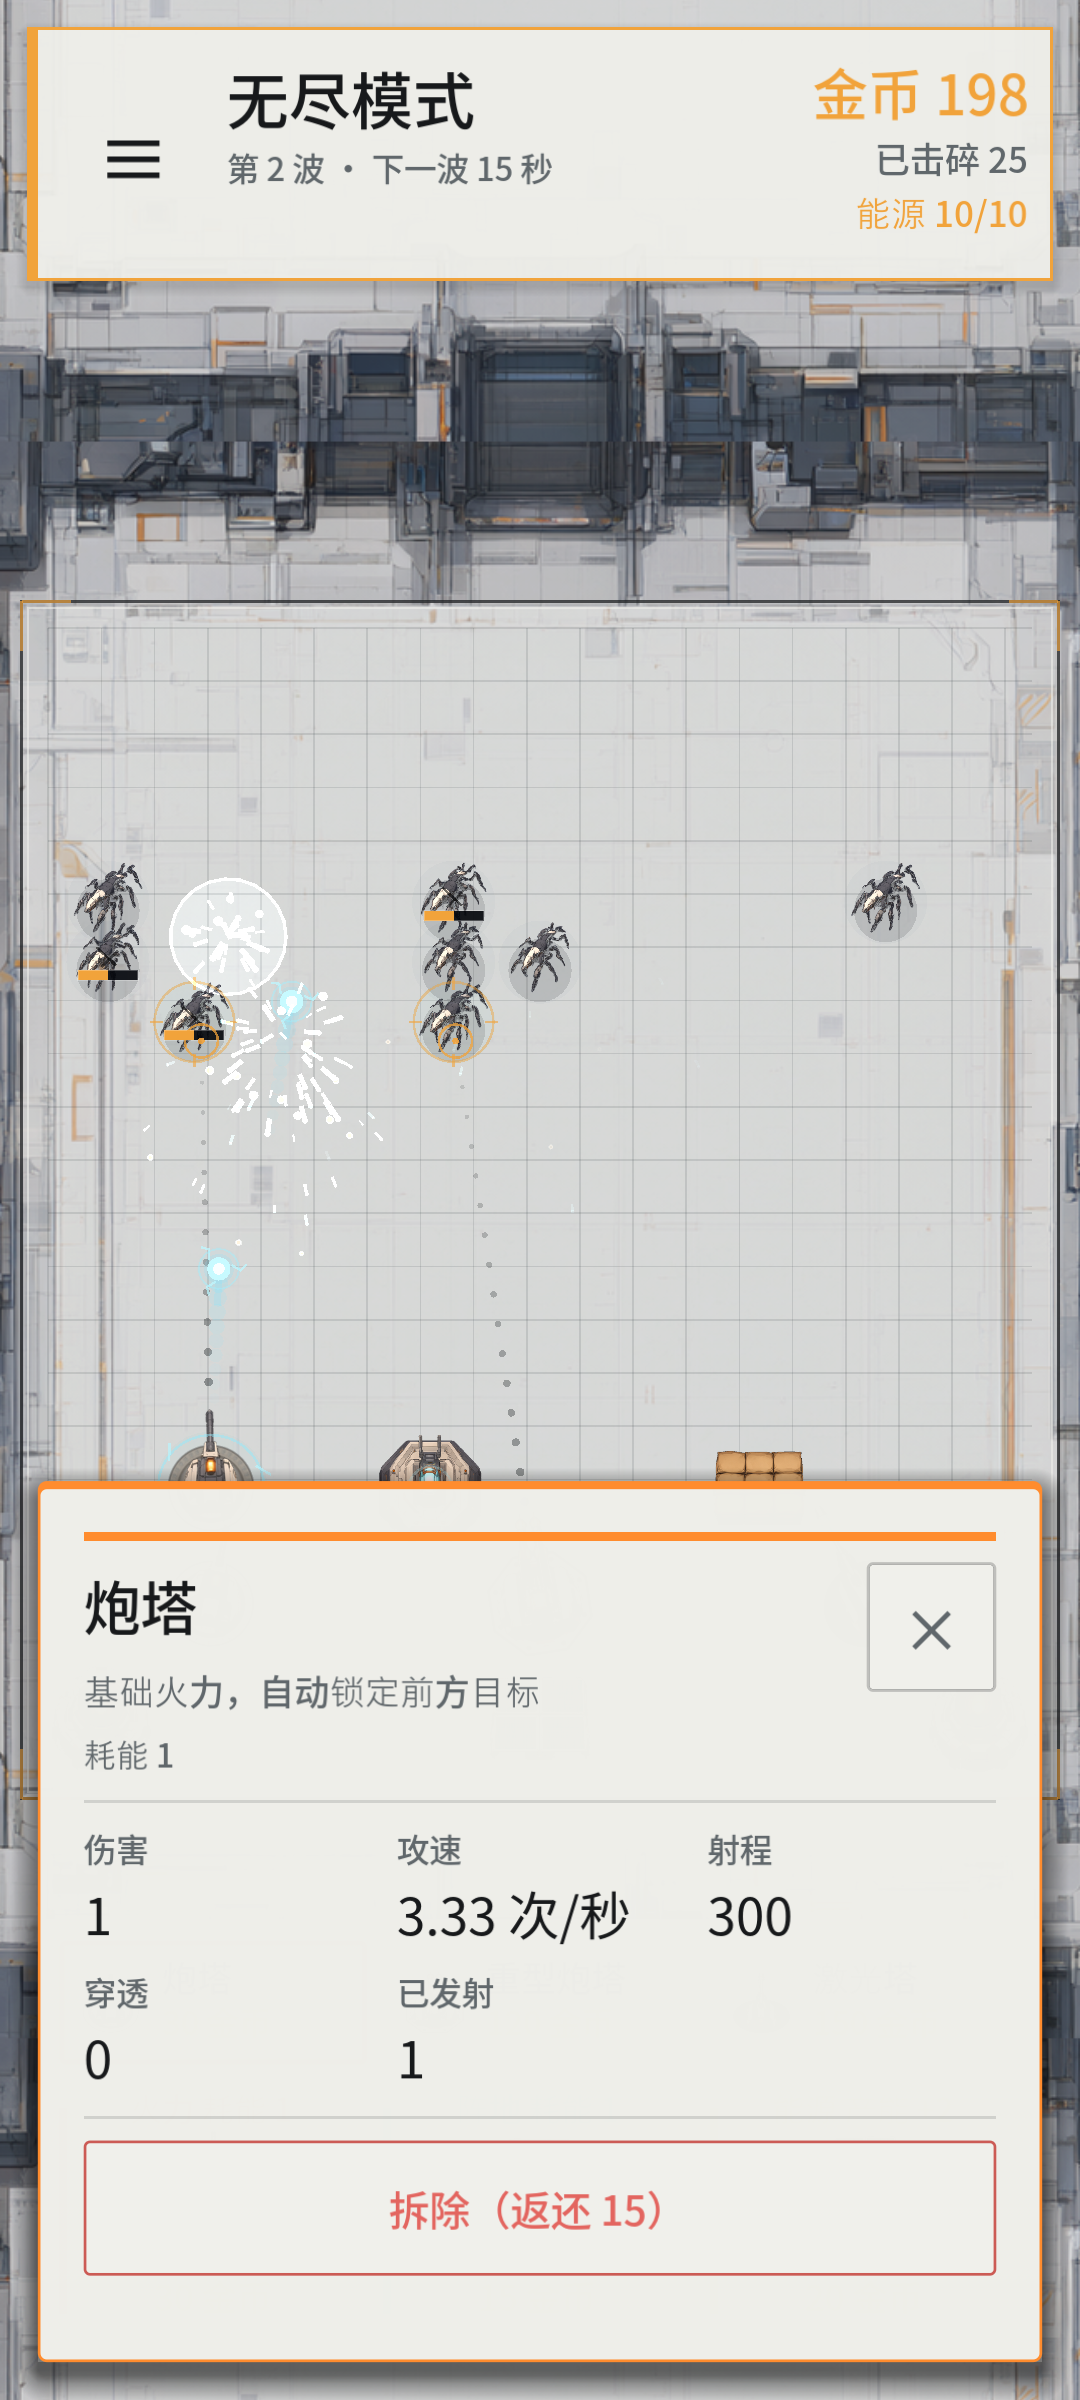
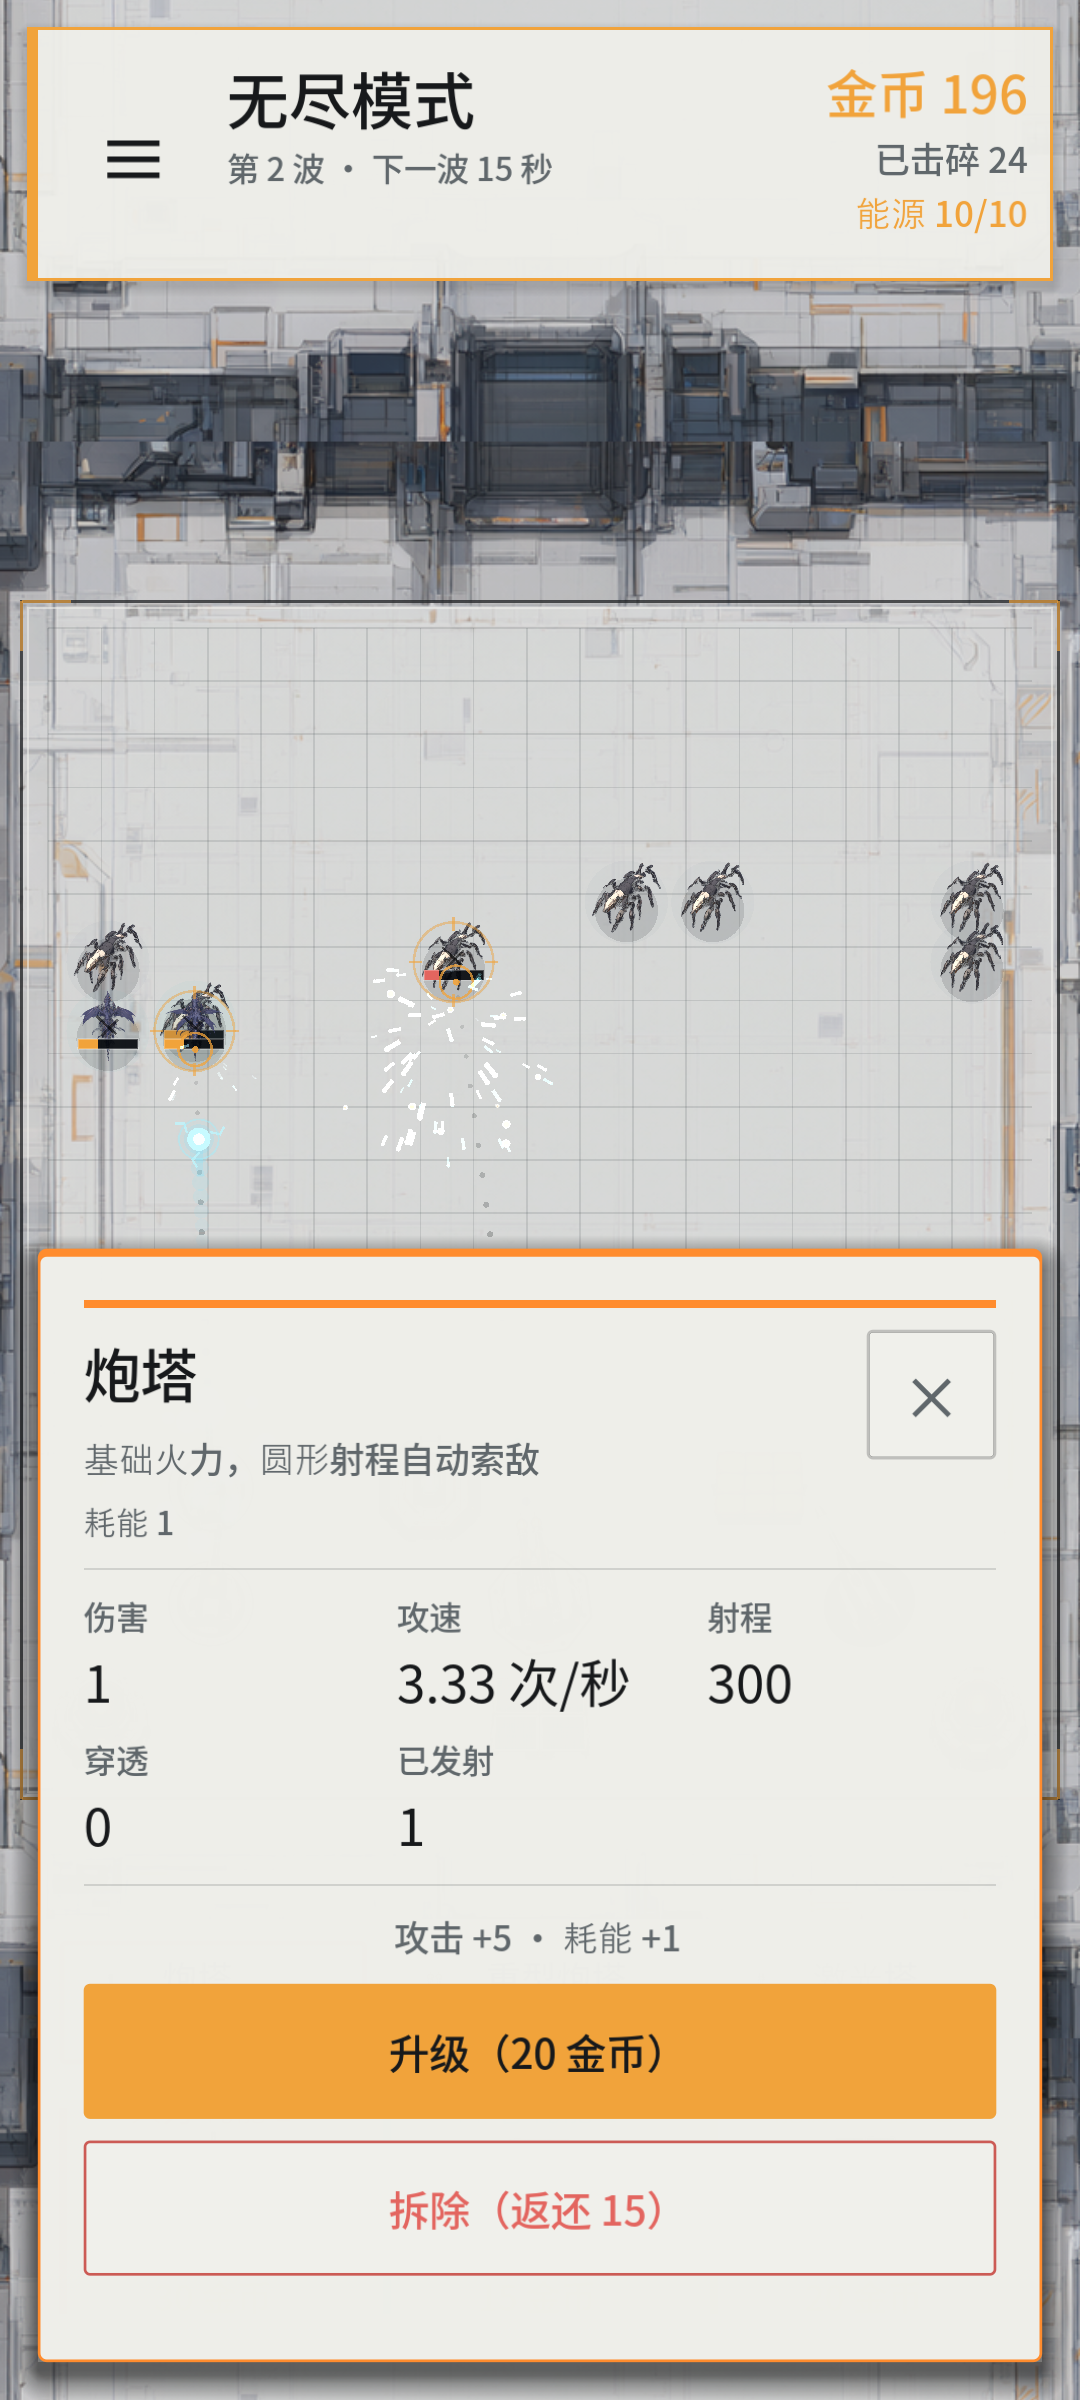
feat: 建筑部署后按等级升级
- 增加升级曲线：炮塔攻击 +5、重型炮塔 +30、激光攻击与耗能翻倍，激光上限更高

- 聚焦面板恢复单个升级按钮，显示升级效果与费用，满级禁用

- 升级计入投入并刷新供电，补充冒烟测试与 README

diff --git a/README.md b/README.md
@@ -4,7 +4,7 @@
 
 开局有 5 秒准备时间和 50 金币：方块不会生成，玩家先把太阳能电板和炮塔放到网格上。倒计时结束后战斗开始，炮塔自动锁定并射出弹珠，摧毁眼前的目标。
 
-金币来自击碎方块。商店按三类切换道具列表，所有形态都直接建造，没有升级路线：
+金币来自击碎方块。商店按三类切换道具列表，所有形态都直接建造；部署后还可以在聚焦面板里按等级升级，低/中/高级建筑用不同成长曲线：
 
 - **火力**：炮塔、重型炮塔、激光塔。拖到格子后直接放置，射程用绿色格子显示。
 - **阵地**：沙袋、压缩塔。沙袋负责拦截；压缩塔有施法朝向，需要二次确认，施法范围用绿色格子显示。
@@ -16,7 +16,7 @@
 
 初始 50 金币刚好是太阳能电板（20）+ 炮塔（30）。如果先放炮塔，炮塔图标会因缺电置灰，放下太阳能电板后立刻恢复；之后新增建筑如果超出产能，只有新建筑置灰离线，已经运转的建筑不会被拖停。
 
-游戏界面如下图：中间是持续下滚的方块流，底部上方是当前类别的道具列表、下方是火力/阵地/能源三类卡；顶栏右上角一列右对齐显示金币、击碎数和能源供需，左侧显示当前波次和下一波倒计时。炮塔在圆形射程内自动锁定目标并持续开火，玩家负责选道具、拖放、二次确认和规划能源。
+游戏界面如下图：中间是持续下滚的方块流，底部上方是当前类别的道具列表、下方是火力/阵地/能源三类卡；顶栏右上角一列右对齐显示金币、击碎数和能源供需，左侧显示当前波次和下一波倒计时。炮塔在圆形射程内自动锁定目标并持续开火，玩家负责选道具、拖放、给压缩塔确认朝向、升级建筑和规划能源。
 
 ![游戏截图：方块流、三类建筑、道具列表与底部道具栏](image.png)
 
@@ -32,6 +32,7 @@
 - 阵地：沙袋生命 120，敌人接触后停下攻击沙袋，沙袋被摧毁后敌人继续前进；压缩塔 60 金币，生命 180
 - 压缩塔：拖放到格子后需要二次确认，绿色格子会标出施法直线；确认后绿格隐藏，不再画线，被加成的火力塔身上会持续冒青色粒子，多个压缩塔不叠加
 - 能源：太阳能电板产能 2、20 金币；聚能塔产能 4、60 金币。总产能不足时只有排在后段或新布置的建筑离线并置灰
+- 建筑部署后可升级：炮塔每级攻击 +5、耗能 +1；重型炮塔每级攻击 +30、耗能 +2；激光塔每级攻击 ×2、耗能 ×2，上限更高；沙袋/压缩塔加生命，能源建筑加产能
 - 每次发射都会生成一颗独立的球，之前发射的球继续飞行；基础炮弹撞到第一个方块或墙面就消失
 - 每颗球独立计算寿命，撞墙或命中后消失
 - 方块被击中/击碎时会溅出对应颜色的火花和闪光，电击命中使用蓝白火花；击碎时额外爆出金币碎屑
@@ -43,7 +44,7 @@
 - 怪物分为普通、迅捷、装甲、精英四类，分别在第 1/2/3/4 波解锁；迅捷移动更快，装甲与精英拥有更高血量，并有各自的外观标记
 - 普通怪基础血量从 3 开始，每波按 1.28 倍复利增长；血条只在受击后显示 3 秒，重复受击刷新倒计时
 - 点击已放置的建筑打开聚焦面板：火力显示伤害/攻速/射程/穿透/发射数；阵地显示生命、拦截、增益、耗能与状态；能源显示产能、生命、净产能与状态
-- 聚焦面板不再提供升级，只保留属性与拆除；拆除返还购买价的 50%，未供电的建筑或拆掉后场上没有火力时全额返还
+- 聚焦面板显示属性、升级效果与拆除；升级会提高等级并计入投入，拆除返还总投入的 50%，未供电的建筑或拆掉后场上没有火力时全额返还
 - 暂无失败条件（无尽模式），重开按 R
 
 ### 操作
@@ -57,11 +58,11 @@
 | 切换语言 | L 或设置面板 | 设置面板 |
 | 重开 | R 或设置面板 | 设置面板 |
 
-战斗自动进行：火力建筑在圆形射程内自动锁定、转向、开火；玩家负责选道具、拖放、给压缩塔确认朝向和补齐能源。
+战斗自动进行：火力建筑在圆形射程内自动锁定、转向、开火；玩家负责选道具、拖放、给压缩塔确认朝向、升级建筑和补齐能源。
 
-### 建筑与道具
+### 建筑与升级
 
-商店按类别列出全部可建造形态，重型炮塔、激光塔、压缩塔和聚能塔都直接建造，不再有升级路线。
+商店按类别列出全部可建造形态，重型炮塔、激光塔、压缩塔和聚能塔都直接建造；升级不再切换形态，只提高当前建筑的等级、数值和能耗。
 
 | 建筑 | 类别 | 造价 | 能源 | 生命 | 作用 |
 | --- | --- | --- | --- | --- | --- |
@@ -75,14 +76,15 @@
 
 - 能源结算：总产能 ≥ 总耗能时全部正常；不足时按布置顺序给既有建筑供电，只有排在后面的建筑离线并置灰，能源建筑本身继续发电
 - 只有压缩塔在拖放后进入二次确认：再拖一次确定 8 个方向之一，松手确认并扣费；炮塔、沙袋、太阳能电板和聚能塔放下即完成
-- 拆除返还购买价的 50%；未供电的建筑或拆掉后场上将没有火力时全额返还，允许玩家把缺电/无输出阵容拆掉重建
+- 升级成长：炮塔攻击 +5/耗能 +1，上限 Lv.5；重型炮塔攻击 +30/耗能 +2，上限 Lv.5；激光塔攻击 ×2/耗能 ×2，上限 Lv.6；沙袋生命 +60/耗能 +1，压缩塔生命 +90/耗能 +1，太阳能电板产能 +1，聚能塔产能 +2
+- 升级费用按等级递增，升级投入计入拆除返还；拆除返还总投入的 50%，未供电的建筑或拆掉后场上将没有火力时全额返还，允许玩家把缺电/无输出阵容拆掉重建
 - 压缩塔的覆盖范围是穿过自身、沿朝向延伸的整条直线；只有靠近这条直线的火力建筑吃到增益
 - 电击弹在命中时使用蓝白火花；激光塔吃到压缩塔增益时伤害同样翻倍
 - 敌人只会被阵地建筑拦截，因此沙袋/压缩塔要放在火力前面；被摧毁的阵地会从场上移除
 - 拖拽时火力建筑用绿色格子标出圆形射程，压缩塔在二次确认时用绿色格子标出施法直线；确认后绿格隐藏，点击建筑查看详情才再次显示；金币不足时卡片变暗且无法开始拖拽
 - 部署期间战场时间降到 28%，屏幕四周压暗，确认或取消后恢复；沉浸感更强，也不会在摆建筑时被怪物偷血
 - 射程判定完全按格子，不再画圆弧；预览绿格、选中建筑绿格和索敌范围使用同一套格子
-- 点击已放置的建筑打开聚焦面板，显示属性与已发射数量；点击空白处或右上角 `×` 关闭
+- 点击已放置的建筑打开聚焦面板，显示属性、升级效果和已发射数量；点击空白处或右上角 `×` 关闭
 
 ![拖拽中的圆形射程：绿色格子为覆盖范围](range_preview.png)
 
@@ -149,7 +151,7 @@ Godot_v4.7.2-stable_win64.exe --headless --fixed-fps 60 --path . res://tools/res
 Godot_v4.7.2-stable_win64.exe --headless --fixed-fps 60 --path . res://tools/smoke_test.tscn
 ```
 
-覆盖：默认中文语言包、英文 key 完整性、三类道具列表与直接建造、开局 50 金币、太阳能电板 + 炮塔刚好 50、无默认建筑、开局 5 秒准备/准备期无方块、方块从顶部视野外进入、只有压缩塔二次确认、炮塔/电力塔直接放置、部署与确认绿格显示并在放下后隐藏、格子射程判定与圆形覆盖、部署减速/压暗与恢复、能源按布置顺序供电、新建筑离线置灰与恢复、重型炮塔/激光塔直接建造、激光塔光束直接伤害、自动索敌开火、沙袋拦截与受击/摧毁后放行、压缩塔朝向直线增益/偏离无效、加成塔粒子开关、电击弹伤害翻倍、网格吸附布置/四边边缘格子/扣费/非法位置、聚焦面板属性与拆除、方块击碎与金币奖励、命中粒子、波次节奏与血量复利成长、四类怪物差异、主界面与设置面板、暂停恢复与设置开关。
+覆盖：默认中文语言包、英文 key 完整性、三类道具列表与直接建造、开局 50 金币、太阳能电板 + 炮塔刚好 50、无默认建筑、开局 5 秒准备/准备期无方块、方块从顶部视野外进入、只有压缩塔二次确认、炮塔/电力塔直接放置、部署与确认绿格显示并在放下后隐藏、格子射程判定与圆形覆盖、部署减速/压暗与恢复、建筑等级成长与能耗提升、能源按布置顺序供电、新建筑离线置灰与恢复、重型炮塔/激光塔直接建造、激光塔光束直接伤害、自动索敌开火、沙袋拦截与受击/摧毁后放行、压缩塔朝向直线增益/偏离无效、加成塔粒子开关、电击弹伤害翻倍、网格吸附布置/四边边缘格子/扣费/非法位置、聚焦面板属性与拆除、方块击碎与金币奖励、命中粒子、波次节奏与血量复利成长、四类怪物差异、主界面与设置面板、暂停恢复与设置开关。
 
 ## 更新截图
 
@@ -205,7 +207,7 @@ scripts/ball.gd             弹球：分步移动、圆-矩形碰撞、寿命、
 scripts/turret_visuals.gd   场上炮塔共用：导引线、锁定环、sprite 转向、炮塔/激光塔分层绘制
 scripts/blocks.gd           滚动怪物流：生成、移动、伤害、拦截与攻击阵地
 scripts/hit_effects.gd      命中粒子：火花、闪光、金币碎屑
-scripts/item_defs.gd        三类建筑与道具的数值定义（无升级路线）
+scripts/item_defs.gd        三类建筑、道具与升级曲线的数值定义
 scripts/shop_bar.gd         纯竖屏底部商店：类别切换、道具列表与拖拽手势
 scripts/item_card.gd        类别卡：当前道具、价格、图标与可购买状态
 scripts/item_chip.gd        类别上方的道具列表项
